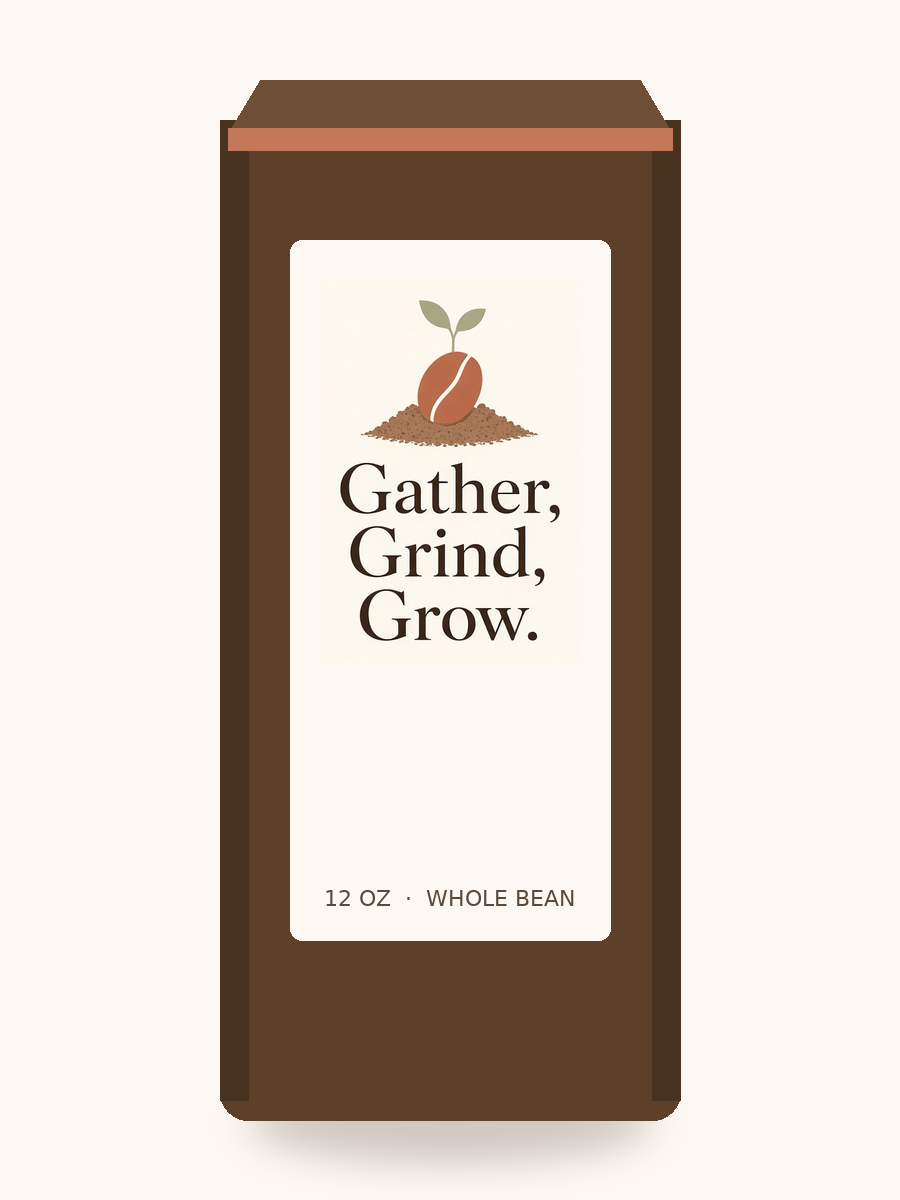
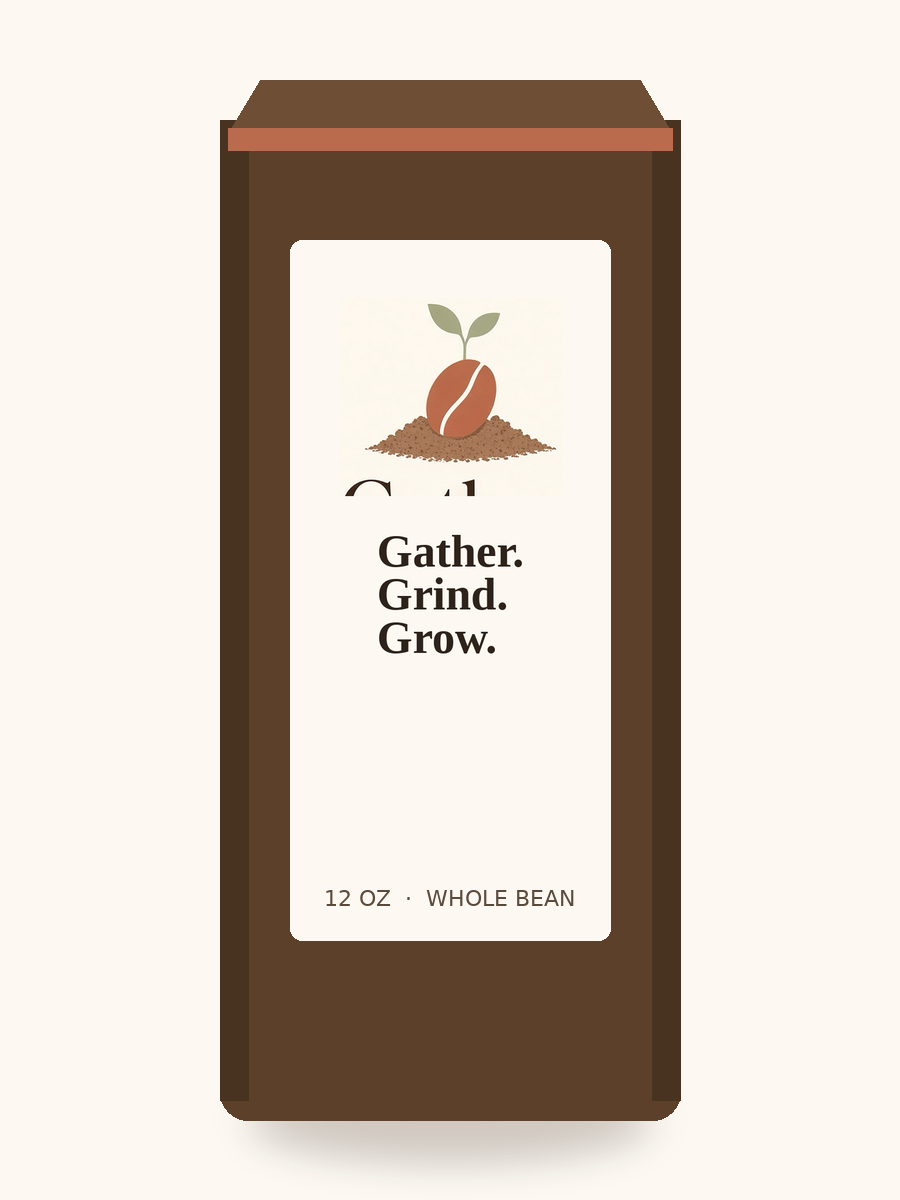
Use periods in Gather. Grind. Grow. wordmark
Update logo, bag mock, and site copy punctuation.

Changed region(s): [[0.3733, 0.2467, 0.6222, 0.555]]

diff --git a/index.html b/index.html
@@ -3,8 +3,8 @@
 <head>
   <meta charset="UTF-8" />
   <meta name="viewport" content="width=device-width, initial-scale=1" />
-  <meta name="description" content="Gather, Grind, Grow — freshly roasted whole-bean coffee, shipped to your door. Soft hospitality for the kitchen table." />
-  <title>Gather, Grind, Grow — Freshly Roasted Whole Bean</title>
+  <meta name="description" content="Gather. Grind. Grow. — freshly roasted whole-bean coffee, shipped to your door. Soft hospitality for the kitchen table." />
+  <title>Gather. Grind. Grow. — Freshly Roasted Whole Bean</title>
   <link rel="icon" href="assets/favicon.svg" type="image/svg+xml" />
   <link rel="preconnect" href="https://fonts.googleapis.com" />
   <link rel="preconnect" href="https://fonts.gstatic.com" crossorigin />
@@ -20,11 +20,11 @@
   <!-- Header -->
   <header class="site-header" id="top">
     <div class="header-inner">
-      <a class="logo" href="#top" aria-label="Gather, Grind, Grow home">
+      <a class="logo" href="#top" aria-label="Gather. Grind. Grow. home">
         <img
           class="logo-img"
           src="assets/logo-LOCKED.png"
-          alt="Gather, Grind, Grow"
+          alt="Gather. Grind. Grow."
           width="120"
           height="120"
         />
@@ -78,7 +78,7 @@
           />
         </div>
         <p class="eyebrow">Whole bean · Roasted to order</p>
-        <h1 id="hero-heading">Gather, Grind, Grow</h1>
+        <h1 id="hero-heading">Gather. Grind. Grow.</h1>
         <p class="hero-lead">
           A warm cup for your kitchen table — freshly roasted, shipped to your door.
           Soft hospitality in a bag: simple, calm, and made for sharing.
@@ -98,7 +98,7 @@
           <div class="bag-illustration">
             <img
               src="assets/bag-12oz-LOCKED.png"
-              alt="Gather, Grind, Grow 12 oz whole-bean coffee bag"
+              alt="Gather. Grind. Grow. 12 oz whole-bean coffee bag"
               width="440"
               height="586"
               class="bag-photo"
@@ -116,13 +116,13 @@
           <div class="product-frame">
             <img
               src="assets/bag-12oz-LOCKED.png"
-              alt="12 oz whole-bean Gather, Grind, Grow coffee bag"
+              alt="12 oz whole-bean Gather. Grind. Grow. coffee bag"
               width="640"
               height="853"
               class="product-photo"
             />
           </div>
-          <p class="media-note">Bag mock with locked Gather, Grind, Grow logo — replace with press photos when printed</p>
+          <p class="media-note">Bag mock with locked Gather. Grind. Grow. logo — replace with press photos when printed</p>
         </div>
 
         <div class="product-info">
@@ -177,7 +177,7 @@
       <div class="section-inner why-inner">
         <div class="why-copy">
           <p class="eyebrow">About</p>
-          <h2 id="about-heading">Gather, Grind, Grow</h2>
+          <h2 id="about-heading">Gather. Grind. Grow.</h2>
           <p>
             <strong>Gather</strong> — coffee is how we welcome people in. A table, a quiet morning,
             a friend who drops by.
@@ -293,7 +293,7 @@
           <img
             class="logo-img logo-img-footer"
             src="assets/logo-LOCKED.png"
-            alt="Gather, Grind, Grow"
+            alt="Gather. Grind. Grow."
             width="100"
             height="100"
           />
@@ -319,7 +319,7 @@
       </div>
     </div>
     <div class="footer-bottom">
-      <p>© <span id="year"></span> Gather, Grind, Grow. Brand name TBD. Design preview — not a live store.</p>
+      <p>© <span id="year"></span> Gather. Grind. Grow. Brand name TBD. Design preview — not a live store.</p>
     </div>
   </footer>
 

diff --git a/css/styles.css b/css/styles.css
@@ -1,4 +1,4 @@
-/* Gather, Grind, Grow — storefront preview
+/* Gather. Grind. Grow. — storefront preview
    Palette: cream #F5F0E8 · soft terracotta #C4785A · espresso #3C2A21 · sage #8A9A7B
    Mobile-first, soft hospitality */
 

diff --git a/README.md b/README.md
@@ -1,18 +1,18 @@
-# Gather, Grind, Grow — Storefront Preview
+# Gather. Grind. Grow. — Storefront Preview
 
 **This is a design / UX preview**, not a live store.  
 Next step: port the look and structure into a **Shopify** theme and real product catalog.
 
-**Wordmark / tagline:** Gather, Grind, Grow  
+**Wordmark / tagline:** Gather. Grind. Grow.  
 **Legal / company brand name:** TBD — do not invent a company name on the storefront. Lead with the tagline.
 
 ## What this is
 
 A phone-ready, static HTML/CSS/JS single-page storefront:
 
-- Hero — Gather, Grind, Grow + hospitality line + Shop CTA  
+- Hero — Gather. Grind. Grow. + hospitality line + Shop CTA  
 - Shop — 12 oz whole-bean product card (demo price, labeled demo)  
-- About / Story — Gather, Grind, Grow meaning in plain warm language  
+- About / Story — Gather. Grind. Grow. meaning in plain warm language  
 - How it works — Order → We roast & ship → Brew at home  
 - Contact — email / Instagram placeholders + Shopify checkout note  
 - Footer + mock cart drawer (UI only)  
@@ -42,7 +42,7 @@ python3 -m http.server 8080
 
 | Token | Value |
 |--------|--------|
-| Wordmark | **Gather, Grind, Grow** (company name TBD) |
+| Wordmark | **Gather. Grind. Grow.** (company name TBD) |
 | Vibe | Soft hospitality — welcome, calm, human |
 | Faith | Quiet “why” (community, gathering, growth) — not sermon-on-bag |
 | Palette | Cream `#F5F0E8`, terracotta `#C4785A`, espresso `#3C2A21`, sage `#8A9A7B` |

diff --git a/BAG-PACKAGING.md b/BAG-PACKAGING.md
@@ -1,4 +1,4 @@
-# Bag packaging — Gather, Grind, Grow
+# Bag packaging — Gather. Grind. Grow.
 
 **Locked logo only:** `assets/logo-LOCKED.png` (cropped Charles mark)
 
